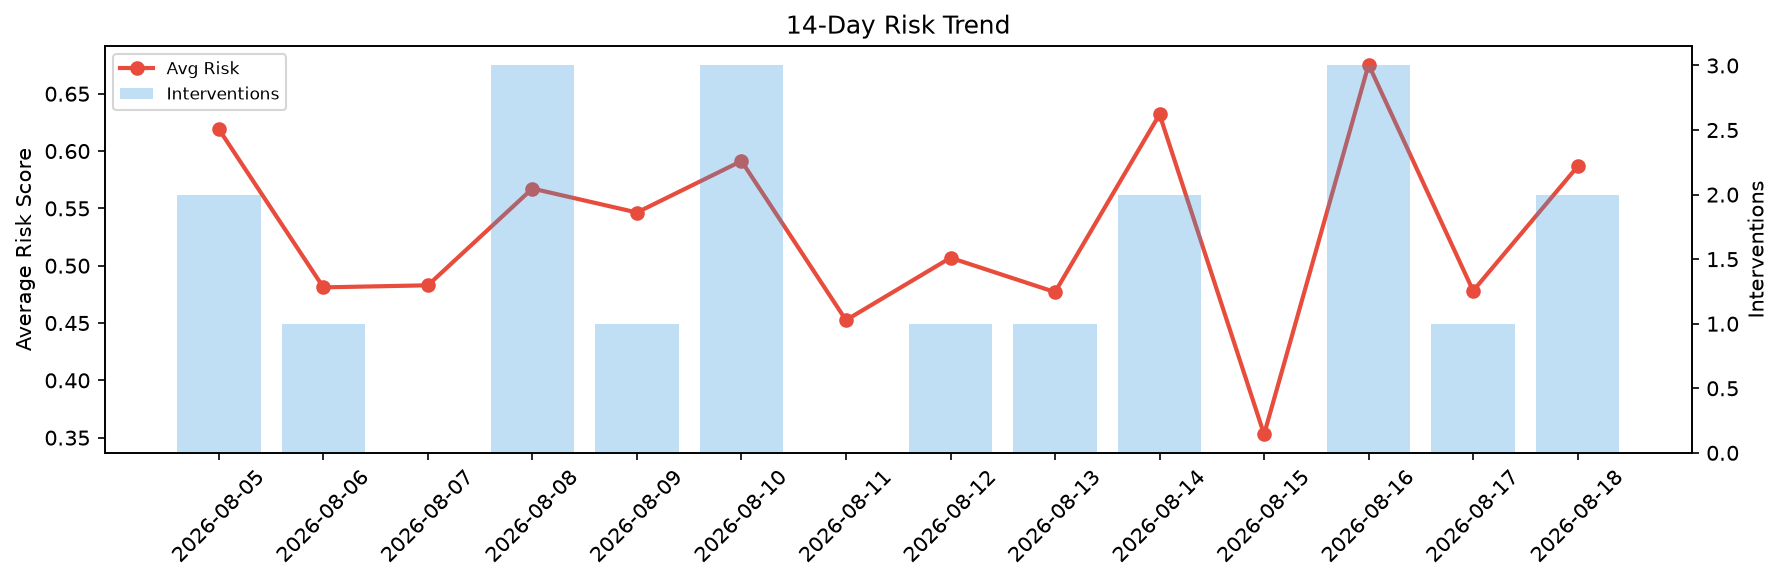
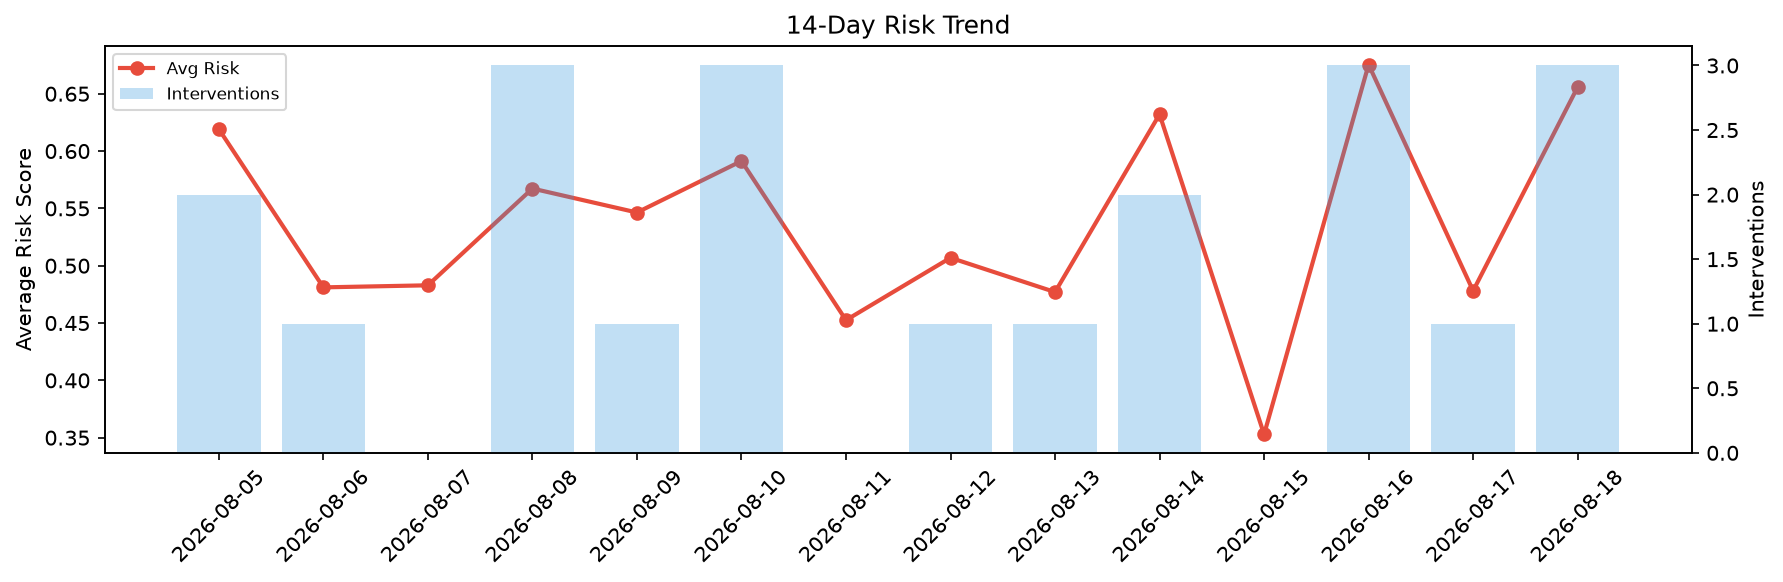
agent-improvement: daily cycle 2026-08-18T14:52

Changed region(s): [[0.8329, 0.0928, 0.9254, 0.4639], [0.802, 0.4639, 0.8329, 0.4948]]

diff --git a/logs/2026-08-18.md b/logs/2026-08-18.md
@@ -1,6 +1,6 @@
 # Agent Improvement Report — 2026-08-18
 
-**Cycle ID:** `518a9213` | **Avg Risk:** 0.5866 | **Interventions:** 2/4
+**Cycle ID:** `a1dda1f5` | **Avg Risk:** 0.6558 | **Interventions:** 3/4
 
 ![Dashboard](2026-08-18_dashboard.png)
 
@@ -10,18 +10,18 @@
 
 | Domain | Risk Score | Decision | Alerts |
 |--------|-----------|----------|--------|
-| code_review | 0.649 | intervene | duplication, coverage |
-| incident_response | 0.4232 | monitor | none |
-| data_pipeline | 0.7116 | intervene | volume_anomaly |
-| deployment | 0.5625 | monitor | latency_p99 |
+| code_review | 0.4293 | monitor | none |
+| incident_response | 0.7869 | intervene | severity, mttr |
+| data_pipeline | 0.775 | intervene | volume_anomaly |
+| deployment | 0.6319 | intervene | latency_p99 |
 
 ## Delta vs Yesterday
 
 | Domain | Today | Yesterday | Change |
 |--------|-------|-----------|--------|
-| code_review | 0.649 | 0.4701 | 📈 38.1% |
-| incident_response | 0.4232 | 0.3464 | 📈 22.2% |
-| data_pipeline | 0.7116 | 0.6067 | 📈 17.3% |
-| deployment | 0.5625 | 0.4893 | 📈 15.0% |
+| code_review | 0.4293 | 0.4701 | 📉 -8.7% |
+| incident_response | 0.7869 | 0.3464 | 📈 127.2% |
+| data_pipeline | 0.775 | 0.6067 | 📈 27.7% |
+| deployment | 0.6319 | 0.4893 | 📈 29.1% |
 
-**Refinement:** `{'adjustment': 'maintain', 'trend': 'improving', 'window': 4}`
+**Refinement:** `{'adjustment': 'tighten_thresholds', 'trend': 'degrading', 'window': 4}`
